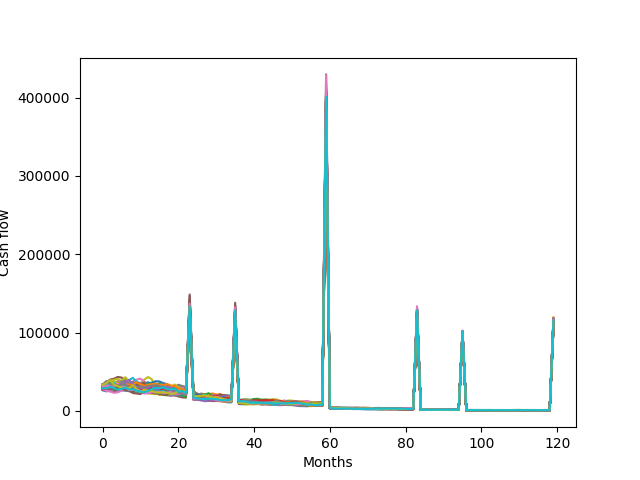
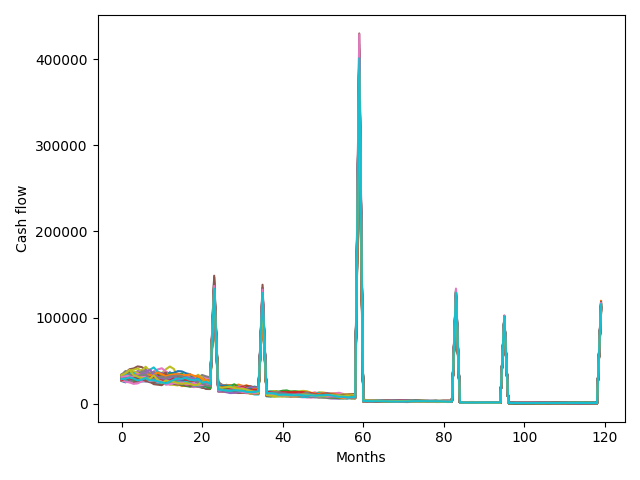
ax labels correct

diff --git a/evaluation.py b/evaluation.py
@@ -61,13 +61,14 @@ def plotMatrix(matrix, nameX ='', nameY = '', saveUnder = '', showPlot = True):
     #plt.plot(extra, color = 'black' )
     plt.xlabel(nameX)
     plt.ylabel(nameY)
+    plt.tight_layout()
     if (saveUnder != ''):
         plt.savefig('plots/Floris/' + saveUnder + '.png')
     if (showPlot): 
         plt.show()
 
 
-def plotDifferenceFromMarginZCBHedge(desired_margin_cashflows, simulated_cashflows, fileName, noOutliers = False):
+def plotDifferenceFromMarginZCBHedge(desired_margin_cashflows, simulated_cashflows, fileName, noOutliers = True):
     data = pd.read_excel('data/' + fileName+ '.xlsx')
     optimal_x = data[data.columns[1]]
     differences = Objective_Function_Methods.compute_margin_differences(desired_margin_cashflows, simulated_cashflows, optimal_x)
@@ -81,7 +82,10 @@ def plotDifferenceFromMarginZCBHedge(desired_margin_cashflows, simulated_cashflo
                     counter += 1
     print(counter)
     # plotList(optimal_x) #Gives a plot of the weights of the hedging porfolio with only zcb
-    plotMatrix(differences, 'Months', 'Deviation from derised margin', saveUnder= fileName, showPlot=False) #Plots all the net cashflows when the portfolio is hedged with zcb's
+    if noOutliers:
+        plotMatrix(differences, 'Months', 'Deviation from derised margin', saveUnder= "MarginDifferenceZCBNoOutliers/"+fileName + " no outliers", showPlot=False) #Plots all the net cashflows when the portfolio is hedged with zcb's
+    else:
+        plotMatrix(differences, 'Months', 'Deviation from derised margin', saveUnder= "MarginDifferenceZCB/"+fileName, showPlot=False) #Plots all the net cashflows when the portfolio is hedged with zcb's
 
 def plotAllDifferencesFromMarginZCBHedge():
     namesExcelZCB = ['zcb margin hedge', 'zcb elastic 0.1 hedge', 'zcb elastic 0.25 hedge', 'zcb elastic 0.5 hedge', 'zcb elastic 0.75 hedge', 'zcb elastic 0.9 hedge', 'zcb value hedge' ]
@@ -99,7 +103,7 @@ def plotAllZCBHedgePortfolios():
         data = pd.read_excel('data/' + namesExcelZCB[i] + '.xlsx')
         optimal_x = data[data.columns[1]]
         matrix.append(optimal_x)
-    plotMatrix(matrix, 'Months', 'Position in ZCB', saveUnder= 'plot of hedging portfolios ZCB', showPlot=False) #Plots all the net cashflows when the portfolio is hedged with zcb's
+    plotMatrix(matrix, 'Months', 'Position in ZCB', saveUnder= 'plot of hedging portfolios ZCB' , showPlot=False) #Plots all the net cashflows when the portfolio is hedged with zcb's
 
 def plotAllSwaptionHedgePortfolios():
     namesExcelSwaption = ['swaption margin hedge', 'swaption elastic 0.1 hedge',
@@ -111,11 +115,9 @@ def plotAllSwaptionHedgePortfolios():
         matrix.append(optimal_x)
     plotMatrix(matrix, 'Swaptions', 'Position in Swaptions', saveUnder= 'plot of hedging portfolios Swaption', showPlot=False) #Plots all the net cashflows when the portfolio is hedged with zcb's
 
-
-def main():
-    print("hello from Floris")
-    
+def plotSwaptions():
     namesExcelZCB = ['zcb margin hedge', 'zcb elastic 0.1 hedge', 'zcb elastic 0.25 hedge', 'zcb elastic 0.5 hedge', 'zcb elastic 0.75 hedge', 'zcb elastic 0.9 hedge', 'zcb value hedge' ]
+
     namesExcelSwaption = ['swaption margin hedge', 'swaption elastic 0.1 hedge',
                            'swaption elastic 0.5 hedge', 'swaption elastic 0.75 hedge', 'swaption elastic 0.9 hedge']
     
@@ -151,13 +153,22 @@ def main():
                 # plotY(totCashflow,saveUnder = 'test' + str(i), showPlot = True)
                 plotMatrix([totCashflow, differences[i]],saveUnder = 'test' + str(i), showPlot = False)
 
+
+def main():
+    print("hello from Floris")
+    
+    namesExcelZCB = ['zcb margin hedge', 'zcb elastic 0.1 hedge', 'zcb elastic 0.25 hedge', 'zcb elastic 0.5 hedge', 'zcb elastic 0.75 hedge', 'zcb elastic 0.9 hedge', 'zcb value hedge' ]
+    namesExcelSwaption = ['swaption margin hedge', 'swaption elastic 0.1 hedge',
+                           'swaption elastic 0.5 hedge', 'swaption elastic 0.75 hedge', 'swaption elastic 0.9 hedge']
+    
+    # plotSwaptions()
     # plotList(optimal_x) #Gives a plot of the weights of the hedging porfolio with only zcb
     # plotMatrix(differences, 'Months', 'Deviation from derised margin', saveUnder= "test", showPlot=False) #Plots all the net cashflows when the portfolio is hedged with zcb's
 
-
+    # data, desired_cashflows,simulated_cashflows,simulated_rates = getData()
     # plotMatrix(simulated_rates, 'Months', 'Short rate', saveUnder= 'Simulated short rates', showPlot=False) #plots all simulated rates
     # plotMatrix(simulated_cashflows, 'Months', 'Cash flow', saveUnder= 'Simulated cashflows', showPlot=False) #plots all simulated cashflows
     # plotAllDifferencesFromMarginZCBHedge()
     # plotAllZCBHedgePortfolios()
     # plotAllSwaptionHedgePortfolios()
-# main()
+main()

diff --git a/prepayment.py b/prepayment.py
@@ -2,7 +2,7 @@
 import numpy as np
 import math
 import pandas as pd  # for reading excel data file
-from sklearn import linear_model  # for logistic regression
+# from sklearn import linear_model  # for logistic regression
 
 import matplotlib.pyplot as plt  # for plotting the data
 import time  # to time the functions
@@ -62,14 +62,14 @@ def trainPrepaymentModel(filename, prepaymentSummary, rescaleSize=10000):
             X.append(incentive[i])
             y.append(0)
 
-    logr = linear_model.LogisticRegression(fit_intercept= True).fit(np.array(X).reshape(-1,1),np.array(y))
+    # logr = linear_model.LogisticRegression(fit_intercept= True).fit(np.array(X).reshape(-1,1),np.array(y))
     
     endTime = time.time()
     print(f"Training took {round(endTime- startTime,1)} seconds")
 
 
     # save the model to disk
-    pickle.dump(logr, open(filename, 'wb'))
+    # pickle.dump(logr, open(filename, 'wb'))
     print(f"model is saved under the name {filename}")
 
 
